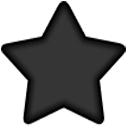
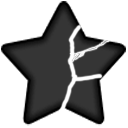
题板 差不多了

Changed region(s): [[0.4375, 0.1875, 0.875, 0.875]]

diff --git a/EduSite/Statics/css/edu/student/answer_sheet.css b/EduSite/Statics/css/edu/student/answer_sheet.css
@@ -25,14 +25,35 @@ body {
 }
 
 #info_panel {
+    text-align: center;    
     position: fixed;
     /* border: 0.0625rem dotted; */
     width: 17.5rem;
     left: 0.75rem;
 }
 
-#statistic_main {
-    /* border: 0.12rem dotted; */
+#statistic_main {  
+    width: 12rem;
+    background: linear-gradient(#ffffff,#cccccc);
+    border-style: solid;
+    border-width: 0.05rem;
+    border-radius: 0.35rem;
+    border-color: white;
+
+    border-image-source: url('/Statics/images/dialog.png');
+    border-image-slice: 40% 40% 40% 40%;
+    border-image-width: 4rem 4rem;
+    border-image-outset: 0rem 0.1rem 1.55rem 0rem;
+    border-image-repeat: fill;
+
+    margin-left: auto;
+    margin-right: 2.5rem;
+    padding-bottom: 1rem;
+    text-align: center;
+}
+
+#btn_back {
+    text-decoration: none;
 }
 
 #q_progress {
@@ -166,6 +187,22 @@ body {
     margin: 0rem;
 }
 
+.arrow-left, .arrow-right, .arrow-up, .arrow-down {
+    content: url('/Statics/images/arrow-left.png');    
+}
+
+.arrow-up {
+    transform: rotate(90deg);
+}
+
+.arrow-right {
+    transform: rotate(180deg);
+}
+
+.arrow-down {
+    transform: rotate(270deg);
+}
+
 .house_icon {
     position: absolute;
     left: -0.9375rem;
@@ -246,25 +283,37 @@ body {
 
 #show_panel {
     position: absolute;
-    left: 10rem;
-    width: 40rem;
-    height: 40rem;
+    left: 7rem;
+    width: 50rem;
+    height: 50rem;
     border: 0.0625rem dotted;
 }
 
+#effect_wrong,
 #effect_right {
-    position: relative;
-    left: 10%;
+    position: absolute;
+    top: 0%;
+    left: 20%;
     width: 80%;
     height: 80%;
     border-radius: 50%;
+}
+
+#effect_right {
     background-repeat: no-repeat;
-    background-size: 100%;
+    background-size: 1%;
+    background-position: 50% 50%;
     background-image: url('/Statics/images/shinning-bg.png');
-    /* background: radial-gradient(circle, #c9772dcc, #dabc2a20); */
-    animation: anim-rot360 5s infinite;  
-    
-    text-align: center;
+    /* border: 0.12rem dotted; */
+}
+
+.bg-scale-out {
+    animation: keyf-scale 1.0s;
+}
+
+@keyframes keyf-scale {
+    from {background-size: 100%;}
+    to {background-size: 60%;}    
 }
 
 @keyframes anim-rot360 {
@@ -277,13 +326,74 @@ body {
 }
 
 .icon-reward {
-    margin: auto;
-    display: block;
+    position: absolute;
+    display: block;    
     /* text-align: center; */
-    margin-top: calc(50% - 8rem);
+    margin: calc(50% - 8rem) calc(50% - 8rem); 
+    top: -100%;
     width: 16rem;
     height: 16rem;
-    content: url('/Statics/images/icon-reward.png');
+    content: url('/Statics/images/gold_coin.png');        
+}
+
+.win-effect {
+    top: 1%;
+    animation: keyf-win 2.5s;
+}
+
+@keyframes keyf-win {
+    0% { top: -100%; }
+    6% { top: 0%; }
+    30% { top: 0%; left: 0%; width: 16rem; height: 16rem; }
+    75% { top: -23.6%; left: -54.2%;  width: 2.5rem; height: 2.5rem; opacity:1;}
+    100% { top: -23.6%; left: -54.2%;  width: 2.5rem; height: 2.5rem; opacity: 0.5;}
+}
+
+
+.icon-fail {
+    position: absolute;
+    display: block;    
+    /* text-align: center; */
+    margin: calc(50% - 8rem) calc(50% - 8rem); 
+    top: 0%;
+    width: 16rem;
+    height: 16rem;
+    content: url('/Statics/images/failed.png');     
+    animation: drop-in 0.3s ease-in;   
+}
+
+@keyframes drop-in {
+    from { top: -100%; }
+    to { top: 0%; }
+}
+
+.icon-shinning {
+    position: absolute;    
+    display: block;
+    opacity: 0;
+    top: 0rem;
+    /* text-align: center; */
+    width: 100%;
+    height: 100%;
+    background-image: url('/Statics/images/shinning.png');
+    background-repeat: no-repeat;
+    background-size: 200% 600%;
+    background-position: 0% 50%;
+    animation: anim-keyframe-2x8 1.2s infinite steps(1,end);
+    animation-delay: 0.1s;
+    animation-iteration-count:1;
+}
+
+@keyframes anim-keyframe-2x8 {
+    0% { background-position: 0% 0%; opacity: 0.5;}
+    12.5% { background-position: 0% 12.5%; opacity: 1;}    
+    25% { background-position: 0% 25%; opacity: 0.52;}
+    37.5% { background-position: 0% 37.5%; opacity: 0.3;}
+    50% { background-position: 0% 50%;opacity: 0.9;}
+    62.5% { background-position: 0% 62.5%; opacity: 1;}
+    75% { background-position: 0%  75%; opacity: 1;}    
+    87.5% { background-position: 0%  87.5%;opacity: 0.7;} 
+    100% { background-position: 0%  100%;opacity: 0.5;} 
 }
 
 .text-wrong {
@@ -308,17 +418,23 @@ body {
     margin: 1.5rem 2.25rem 0rem 2.75rem;
 }
 
-
 .pair-left {
     width: 13.5rem;
     margin-left: 0.5rem;
     display: inline-block;
+    border-color: rgb(76, 133, 168);
+    background: linear-gradient(178.5deg, #ddecf5 , #c5ddec 46%, #9ebbce 54%, #97b7cc 100% );
+}
+
+.pair-right, .option-sort {
+    margin-left: 0.3rem;
+    display: inline-block;
+    border-color: #e79879;
+    background: linear-gradient(178.5deg, #e9d8ca , #e6cbb1 46%, #dbb093 54%, #ddb899 100% );
 }
 
 .pair-right {
     width: 13.5rem;
-    margin-left: 0.3rem;
-    display: inline-block;
 }
 
 .pair-button-group {
@@ -370,7 +486,6 @@ body {
     height: 1.5rem;
 }
 
-
 .unfinished {
     content: url('/Statics/images/gold_coin_dis.png');    
 }
@@ -395,4 +510,9 @@ body {
     50% {
         opacity: 0.4;
     }
+}
+
+#stat_right {
+    color: goldenrod;
+    font-size: 2rem;
 }

diff --git a/EduSite/Templates/course/AnswerSheet.html b/EduSite/Templates/course/AnswerSheet.html
@@ -11,21 +11,16 @@
 <div id="root_panel"> 
     <div id="info_panel">
         <div id="statistic_main">
-            <span class="badge badge-info" id="question_index">0</span><span class="align-text-top" id="question_count">/0</span>
+            <!-- <span class="badge badge-info" id="question_index">0</span><span class="align-text-top" id="question_count">/0</span> -->
             <h5>
-            <span class="gold-icon-big succeed"></span> <span class="badge badge-pill badge-success" id="stat_right">0</span>  
-            <span class="gold-icon-big failed" hidden></span> <span class="badge badge-pill badge-danger" id="stat_wrong" hidden>0</span>
+            <span class="badge badge-pill badge-success" id="stat_right">0</span> <span class="gold-icon-big succeed" ></span> 
+            <span class="badge badge-pill badge-danger" id="stat_wrong" hidden>0</span> <span class="gold-icon-big failed" hidden></span>
             </h5>
             <!-- <button id="btn_back" class="btn btn-warning btn-lg align-right">结束答题</button> -->
-            <a href="{% url 'user:student' %}" id="btn_back" class="btn-round-wine">结束答题</a>
+            <a href="{% url 'user:student' %}" id="btn_back" class="btn-circle-orange"><span class="arrow-left"></span> 结束答题</a>
         </div>
         <div id='q_progress'>
             <ul id="progress_list">
-                <li><span class="gold_icon"></li>
-                <li><span class="gold_icon"></li>
-                <li><span class="gold_icon"></li>
-                <li><span class="gold_icon"></li>                    
-                <li><span class="gold_icon"></li>
                 <li><span class="gold_icon"></li>
             </ul>
         </div>
@@ -61,9 +56,10 @@
 
     <div id="show_panel" hidden>
         <div id="effect_right" hidden>
-            <span class="icon-reward"></span>
+            <span class="icon-reward"></span><span class="icon-shinning"></span>
         </div>
         <div id="effect_wrong" hidden>
+            <span class="icon-fail"></span>
         </div>    
     </div>
 </div>

diff --git a/EduSite/Statics/js/course/answer-sheet.js b/EduSite/Statics/js/course/answer-sheet.js
@@ -13,7 +13,7 @@ var cur_idx = -1;
 var question_sum = 0;
 
 function onInit(event) {  
-    ajaxSubmitJson(document.getElementById('qlist_form'), onQuestionListGet, failFunc)
+    ajaxSubmitJson(document.getElementById('qlist_form'), onQuestionListGet, failFunc);
 }
 
 function onSubmitClk(event) {
@@ -97,15 +97,17 @@ function showEffect(isCorrect) {
     var finisheFunc = null;
 
     if(isCorrect) {
-        $('#effect_right').show();
-        effectTime = 3;
+        $('#effect_right').show().addClass("bg-scale-out");
+        $('.icon-reward').addClass('win-effect');
+        
+        effectTime = 1.8;
         finisheFunc = ()=> {
             onNextClk();
         };
         $('#q_type_tips').html(QTYPE_TIPS_MAP["SUCCEED"]);
     }
     else {
-        effectTime = 1.2;
+        effectTime = 1;
         $('#btn_submit').hide();
         $('#btn_next').show();
         $('#effect_wrong').show();
@@ -115,7 +117,8 @@ function showEffect(isCorrect) {
     }
     
     setTimeout(() => {
-        $('#effect_right').hide();
+        $('.icon-reward').removeClass('win-effect');
+        $('#effect_right').hide().removeClass('bg-scale-out');
         $('#effect_wrong').hide();
         $('#show_panel').hide();
         $('#sheet_bg_in').removeClass('effect-wrong');
@@ -370,7 +373,7 @@ function checkPair(key_str) {
 
 var SORTABLE_OPTION_HTML = '<div class="option-group" id="id_option_cc" dropzone="move" ondrop="drop(event)" ondragover="allowDrop(event)" data-sortid="cc">\
                                 <span id="id_span_cc"></span>\
-                                <label class="option-pair full-line" draggable="true" ondragstart="drag(event)" width="336" height="69" id="sort_item_cc" data-sortid="cc" data-opidx="~~"> \
+                                <label class="option-pair option-sort full-line" draggable="true" ondragstart="drag(event)" width="336" height="69" id="sort_item_cc" data-sortid="cc" data-opidx="~~"> \
                                         ##\
                                 </label>\
                             </div>';

diff --git a/EduSite/Statics/css/edu/student/common_lib.css b/EduSite/Statics/css/edu/student/common_lib.css
@@ -11,22 +11,30 @@
                 -1px -1px 1px rgb(26,98,133);
 }
 
+.btn-circle-orange,
 .btn-round-orange, .btn-round-sky, .btn-round-wine {
     font-family: inherit;
     font-size: 1.2rem;
     font-weight: 500;
     border-style: solid;
     border-width: 0.125em;
-    border-radius: 0.25em;
-
+    
     padding: 0.3em 0.8em 0.3em 0.8em;
     box-shadow: #3d2410 0.07em 0.07em 0.125em;
 }
 
-.btn-round-orange {
+.btn-round-orange, .btn-round-sky, .btn-round-wine {
+    border-radius: 0.25em;
+}
+
+.btn-circle-orange {
+    border-radius: 1em;
+}
+
+.btn-round-orange, .btn-circle-orange {
     color: aliceblue;
     border-color: #3d2410;
-    background: linear-gradient(176deg, #f59541 , #b66f30 45%, #9c571a 55%, #aa5a13 90% );
+    background: linear-gradient(176deg, #ef9f8d , #f19681 45%, #e06044 55%, #cc573d 90% );
 }
 
 .btn-round-wine:hover {

diff --git a/EduSite/CourseFunApp/views.py b/EduSite/CourseFunApp/views.py
@@ -242,7 +242,7 @@ def answer_sheet(request, sectionID):
                       context={"section_name": lesson.description, "questionType": ""})
     else:
         print("-`-`-`-`" + request.method)
-        question_dict = exam_sys.generate_question_set(lesson)#, 1, ['Pair','Sort'])
+        question_dict = exam_sys.generate_question_set(lesson, 1, ['Pair','Sort'])
         return JsonResponse(question_dict)
 
 

diff --git a/EduSite/CourseFunApp/exam_system.py b/EduSite/CourseFunApp/exam_system.py
@@ -9,7 +9,7 @@ q_type_list = QuestionModels.get_qType_list()
 # get question
 
 # generate a question set. Dict:{type:[]}
-def generate_question_set(sectionID=[], per_sum=4, type_list=[]):
+def generate_question_set(sectionID=[], per_sum=2, type_list=[]):
     tmp_list = type_list
     if not tmp_list:
         tmp_list = q_type_list
